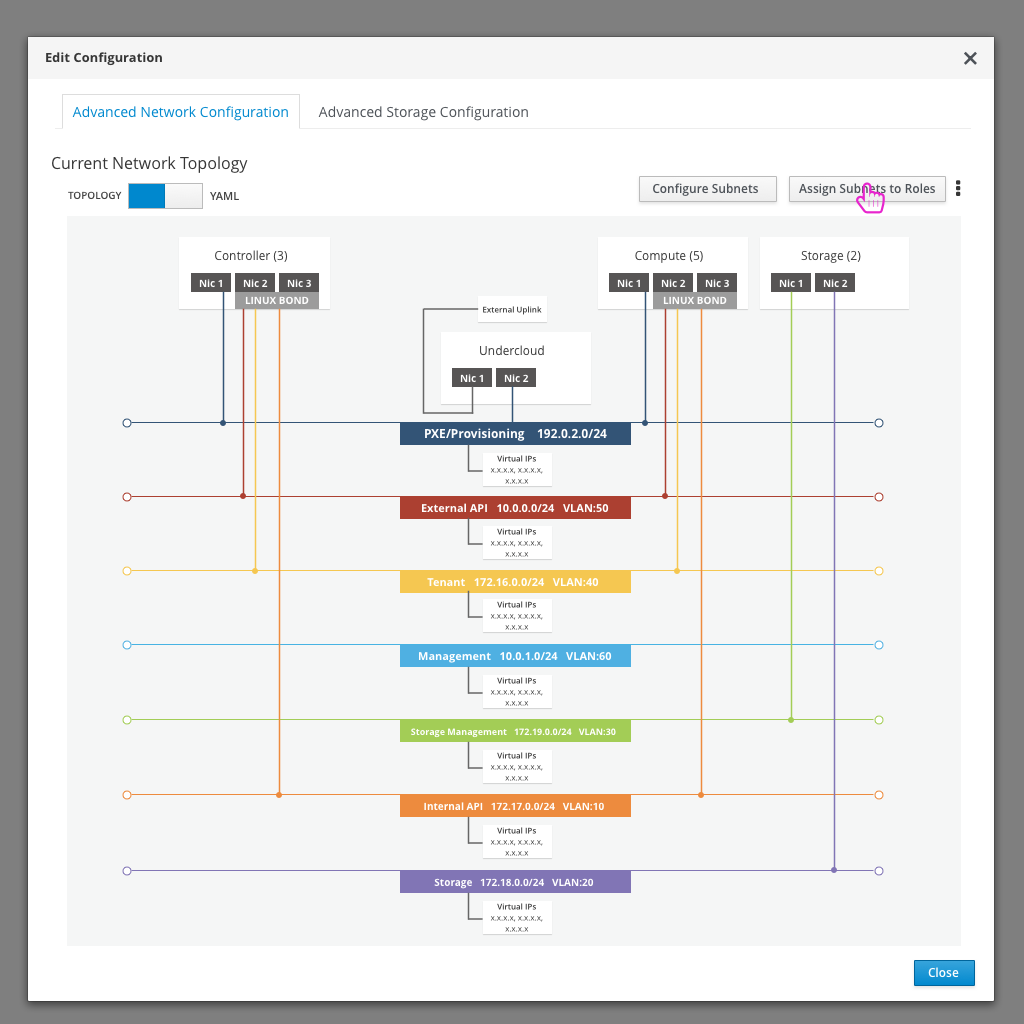
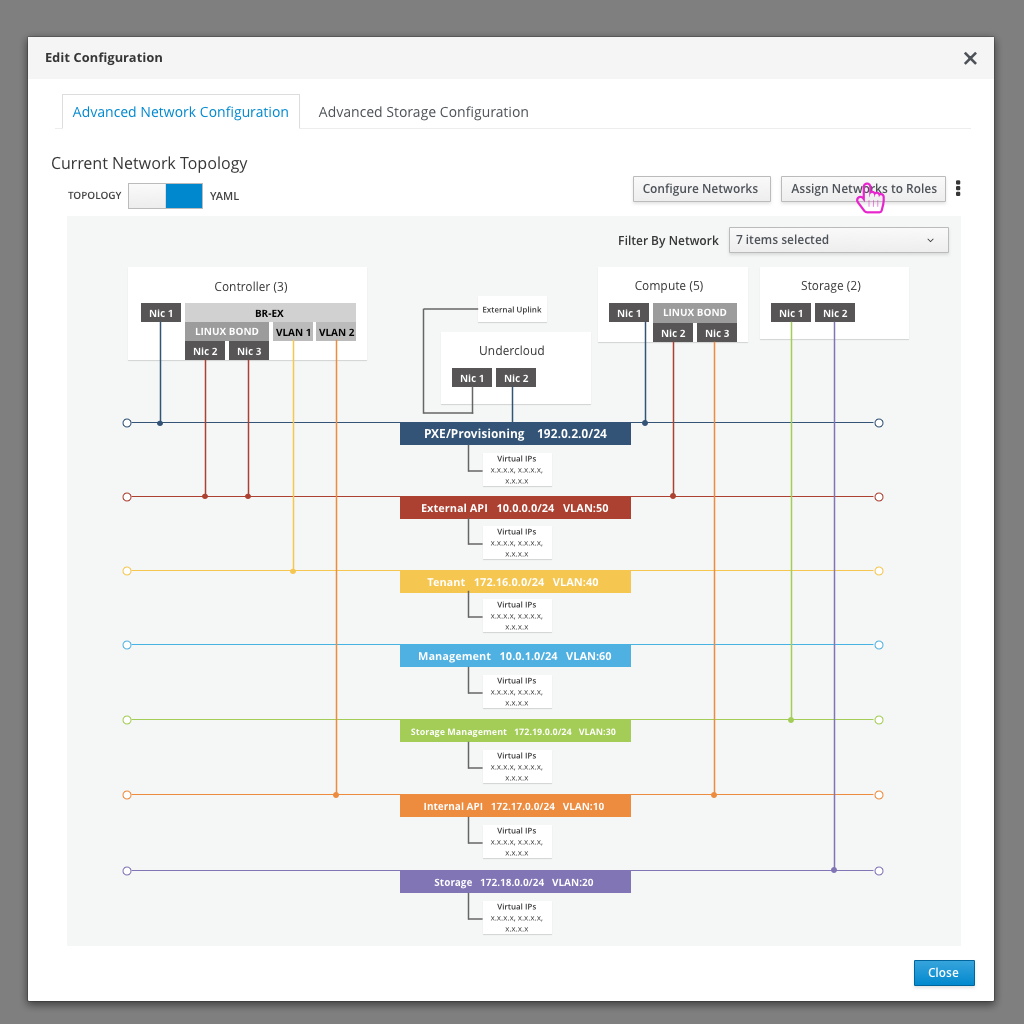
Updating network configuration designs

diff --git a/tripleo-ui/3-tripleo-ui-edge-cases/7.advancednetworkconfigurationandtopology.md b/tripleo-ui/3-tripleo-ui-edge-cases/7.advancednetworkconfigurationandtopology.md
@@ -1,23 +1,23 @@
 # Advanced Network Configuration and Network Topology
 ![editconfiguration](img/01-Network-Deployment_Plan.png)
-- An advanced user (or preparation expert) might use the UI to setup advanced Networking configuration. To access the configuration, they can click on the "Edit Configuration" button on the deployment workflow.
+- An advanced user (or preparation expert) might use the UI to setup advanced Networking configuration. To access the configuration, they can click on the "Edit Configuration" button on the 4th step of the deployment workflow.
 
 ## Network Topology
 ![networktopology](img/02-Network-Edit_Configuration_Modal.png)
 - Once the user has clicked on the Edit Configuration button, they will see the current Network Topology as a base view. They will have a number of actions they could perform from here that are in buttons at the top of the modal.
-- The network topology is a visual representation of the roles, their NIC configuration, along with which subnets each NIC is configured for.
-- The user can see the high level subnet information as well.
+- The network topology is a visual representation of the roles, their NIC configuration, along with which networks each NIC is configured for.
+- The user can see the high level network information as well.
 
-## Configure Subnets
-![configuresubnets](img/03-Network-Configure_Subnets.png)
-- The subnet configuration will slide over the topology view. It will allows users to edit the configuration of the base networks, enable or disable the networks, and add/delete their own networks.
+## Configure Networks
+![configurenetworks](img/03-Network-Configure_Networks.png)
+- The network configuration will slide over the topology view. It will allows users to edit the configuration of the base networks, enable or disable the networks, and add/delete their own networks.
 - After making any updates, clicking save will return the user back to the network topology view.
 
-## Assign Subnets to Roles
-- Clicking the "Assign Subnets to Roles" button will present the user with another modal.
+## Assign Networks to Roles
+- Clicking the "Assign Networks to Roles" button will present the user with another modal.
 ![networktopology2](img/04-Network-Edit_Configuration_Modal.png)
-![advancednetworkconfiguration3](img/05-Network-Assign_Subnets_to_Roles.png)
-- This matrix allows the user to define which roles will be able to access which subnets.
+![advancednetworkconfiguration3](img/05-Network-Assign_Networks_to_Roles.png)
+- This matrix allows the user to define which roles will be able to access which networks.
 - After making any updates, clicking save will return the user back to the network topology view.
 
 <!---
@@ -57,11 +57,21 @@
 - An additional option is to configure the provider networks.
 - Provider networks will be created after a successful deployment, so they are a bit different from all other networks that are being configured here.
 ![networktopology3](img/12-Network-Edit_Configuration_Modal.png)
-![configureplugins](img/13-Configure_Provider_Networks.png)
+![configureprovidernetworks](img/13-Configure_Provider_Networks.png)
+- Since the Provider networks are different from the network topology set up, an informational icon is included to help the user understand how and when to use these.
+![configureprovidernetworkstooltip](img/14-Configure_Provider_Networks_Tooltip.png)
 
 ## Download Templates
 - Note that there is an additional option in the kebab menu to allow the user to download the templates from this view.
-![networktopology3](img/12-Network-Edit_Configuration_Modal.png)
+![downloadtemplates](img/15-Network-Download_Templates.png)
+
+## Hover States
+- The user will be click on the different pieces of the network topology in order to drill in and edit these items quickly. Hover over states will be used to show the user that these items are clickable.
+![hoverstates](img/16-Network-Hover_States.png)
+
+##Filter networks
+- If the user wants to filter down the number of networks being shown in the topology, they can use the filter dropdown.
+![filternetworks](img/17-Network-Filter_Networks.png)
 
 <!---
 - One additional feature in this modal is that the user can filter down the number of networks being shown to reduce the clutter in this view. The user can unselect any networks they want to hide from view.
